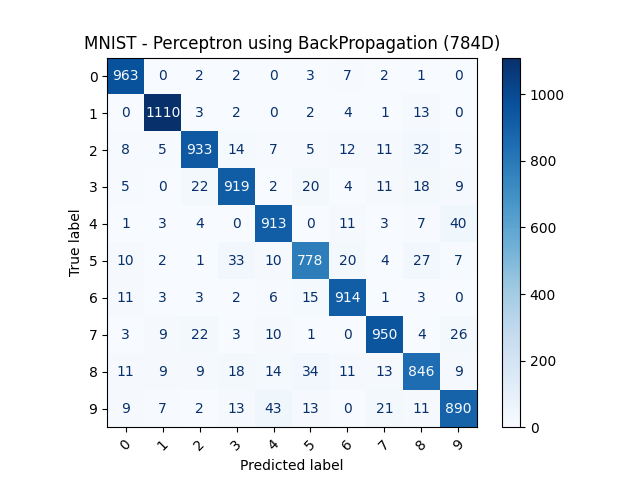
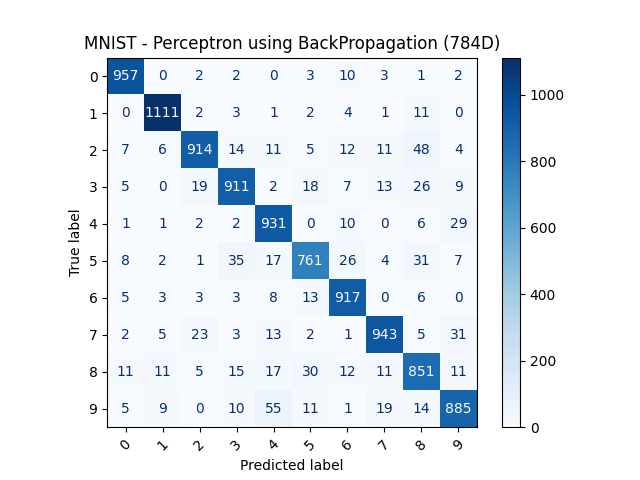
Restructure

diff --git a/source/classifier.py b/source/classifier.py
@@ -34,20 +34,23 @@ class Classifier:
 
     @staticmethod
     def nn_classify(dataSet: DataSet, neighbors, weights) -> np.ndarray:
-        model = KNeighborsClassifier(neighbors, weights=weights)
+        model = KNeighborsClassifier(neighbors, weights=weights, n_jobs=-1)
         model.fit(dataSet.train_images, dataSet.train_labels)
 
         return model.predict(dataSet.test_images)
 
-    def perceptron_bp_classify(dataSet: DataSet, eta, learning_rate):
-        model = SGDClassifier(loss='hinge', alpha=0, learning_rate=learning_rate, eta0=eta)
+    def perceptron_bp_classify(dataSet: DataSet, eta, learning_rate, margin):
+        model = SGDClassifier(loss='hinge', n_jobs=-1)
+        hinge = model.loss_functions['hinge']
+        model.loss_function_ = (hinge[0], margin)
         model.fit(dataSet.train_images, dataSet.train_labels)
 
         return model.predict(dataSet.test_images)
 
-    def perceptron_mse_classify(dataSet: DataSet, eta, learning_rate):
-        model = SGDClassifier(loss='squared_error', alpha=0, learning_rate=learning_rate, eta0=eta, max_iter=1000)
-
+    def perceptron_mse_classify(dataSet: DataSet, eta, learning_rate, margin):
+        model = SGDClassifier(loss='squared_error', alpha=0, learning_rate=learning_rate, eta0=eta, n_jobs=-1)
+        hinge = model.loss_functions['hinge']
+        model.loss_function_ = (hinge[0], margin)
         model.fit(dataSet.train_images, dataSet.train_labels)
 
         return model.predict(dataSet.test_images)

diff --git a/source/mnist/MNIST-PerceptronMSE.py b/source/mnist/MNIST-PerceptronMSE.py
@@ -54,8 +54,8 @@ if __name__ == '__main__':
     mnist_dataSet_raw = Utility.load_MNIST("data\\")
     mnist_dataSet_2d = Utility.pca_transform(mnist_dataSet_raw, 2)
 
-    results_raw = Classifier.perceptron_mse_classify(mnist_dataSet_raw, 0.002, 'adaptive')
-    results_2d = Classifier.perceptron_mse_classify(mnist_dataSet_2d, 0.425, 'adaptive')
+    results_raw = Classifier.perceptron_mse_classify(mnist_dataSet_raw, 0.002, 'adaptive', 5)
+    results_2d = Classifier.perceptron_mse_classify(mnist_dataSet_2d, 0.425, 'adaptive', 10)
 
     # Print Results
     print(classification_report(mnist_dataSet_raw.test_labels, results_raw), file=logfile)

diff --git a/source/orl/ORL-PerceptronMSE.py b/source/orl/ORL-PerceptronMSE.py
@@ -54,8 +54,8 @@ if __name__ == '__main__':
     orl_dataSet_raw = Utility.load_ORL("data\\")
     orl_dataSet_2d = Utility.pca_transform(orl_dataSet_raw, 2)
 
-    results_raw = Classifier.perceptron_mse_classify(orl_dataSet_raw, 0.001, 'invscaling')
-    results_2d = Classifier.perceptron_mse_classify(orl_dataSet_2d, 0.425, 'adaptive')
+    results_raw = Classifier.perceptron_mse_classify(orl_dataSet_raw, 0.001, 'adaptive', 10)
+    results_2d = Classifier.perceptron_mse_classify(orl_dataSet_2d, 0.1, 'adaptive', 5)
 
     # Print Results
     print(classification_report(orl_dataSet_raw.test_labels, results_raw), file=logfile)
